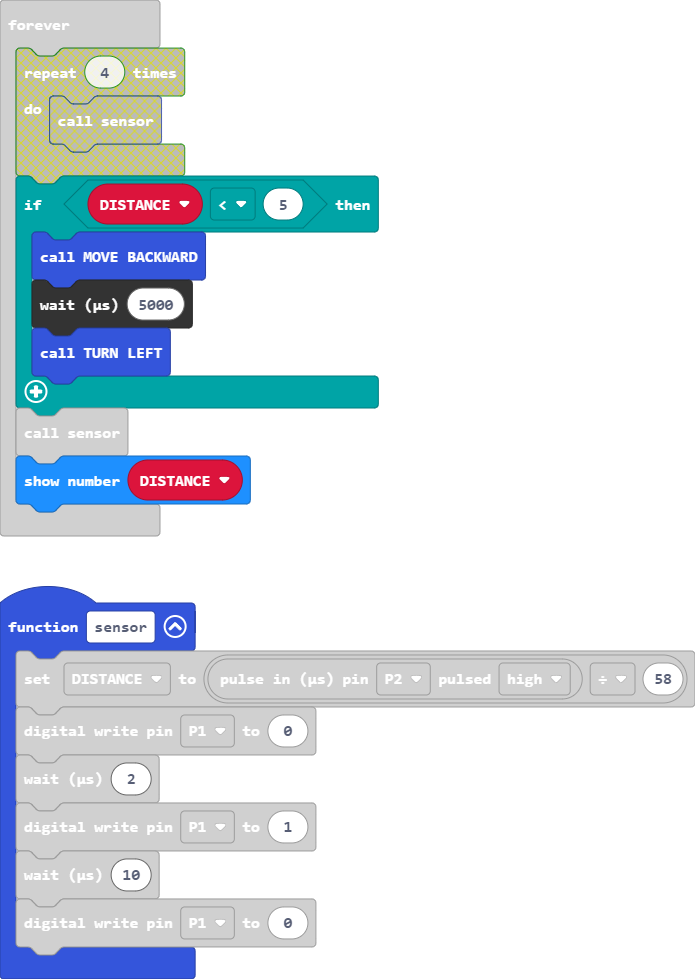
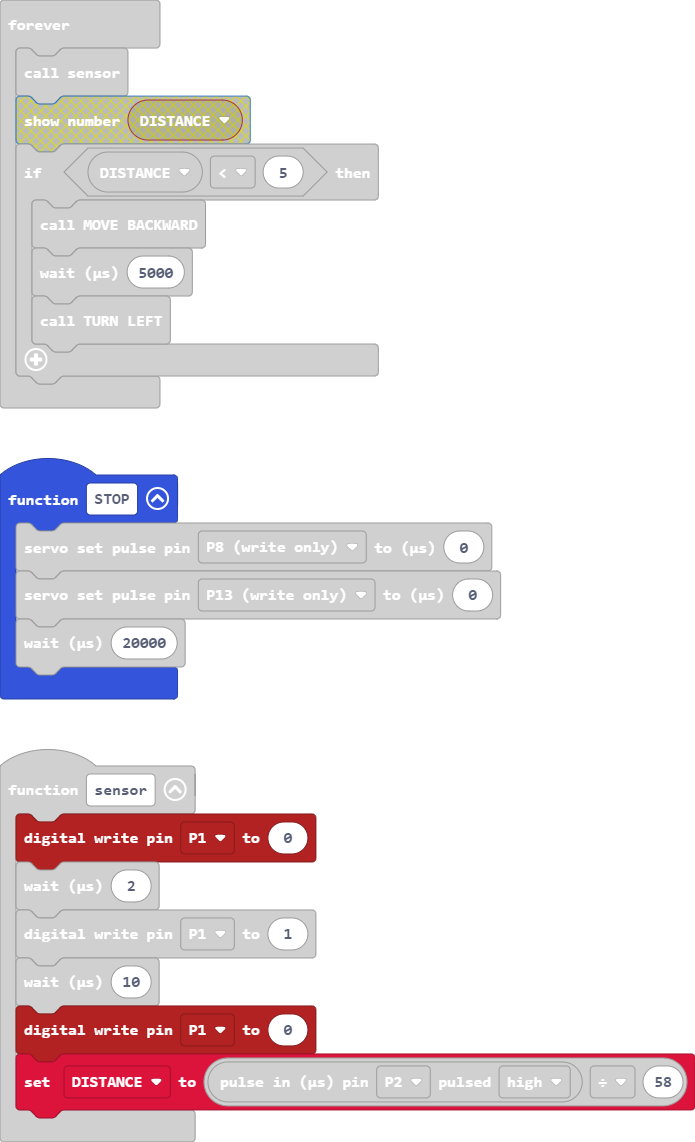
Update main.blocks, main.ts

diff --git a/main.ts b/main.ts
@@ -48,12 +48,12 @@ function FORWARD () {
     control.waitMicros(20000)
 }
 function sensor () {
-    DISTANCE = pins.pulseIn(DigitalPin.P2, PulseValue.High) / 58
     pins.digitalWritePin(DigitalPin.P1, 0)
     control.waitMicros(2)
     pins.digitalWritePin(DigitalPin.P1, 1)
     control.waitMicros(10)
     pins.digitalWritePin(DigitalPin.P1, 0)
+    DISTANCE = pins.pulseIn(DigitalPin.P2, PulseValue.High) / 58
 }
 let DISTANCE = 0
 radio.setGroup(12)
@@ -67,7 +67,6 @@ basic.showLeds(`
 DISTANCE = 0
 basic.forever(function () {
     sensor()
-    basic.showNumber(DISTANCE)
     if (DISTANCE < 5) {
         MOVE_BACKWARD()
         control.waitMicros(5000)
